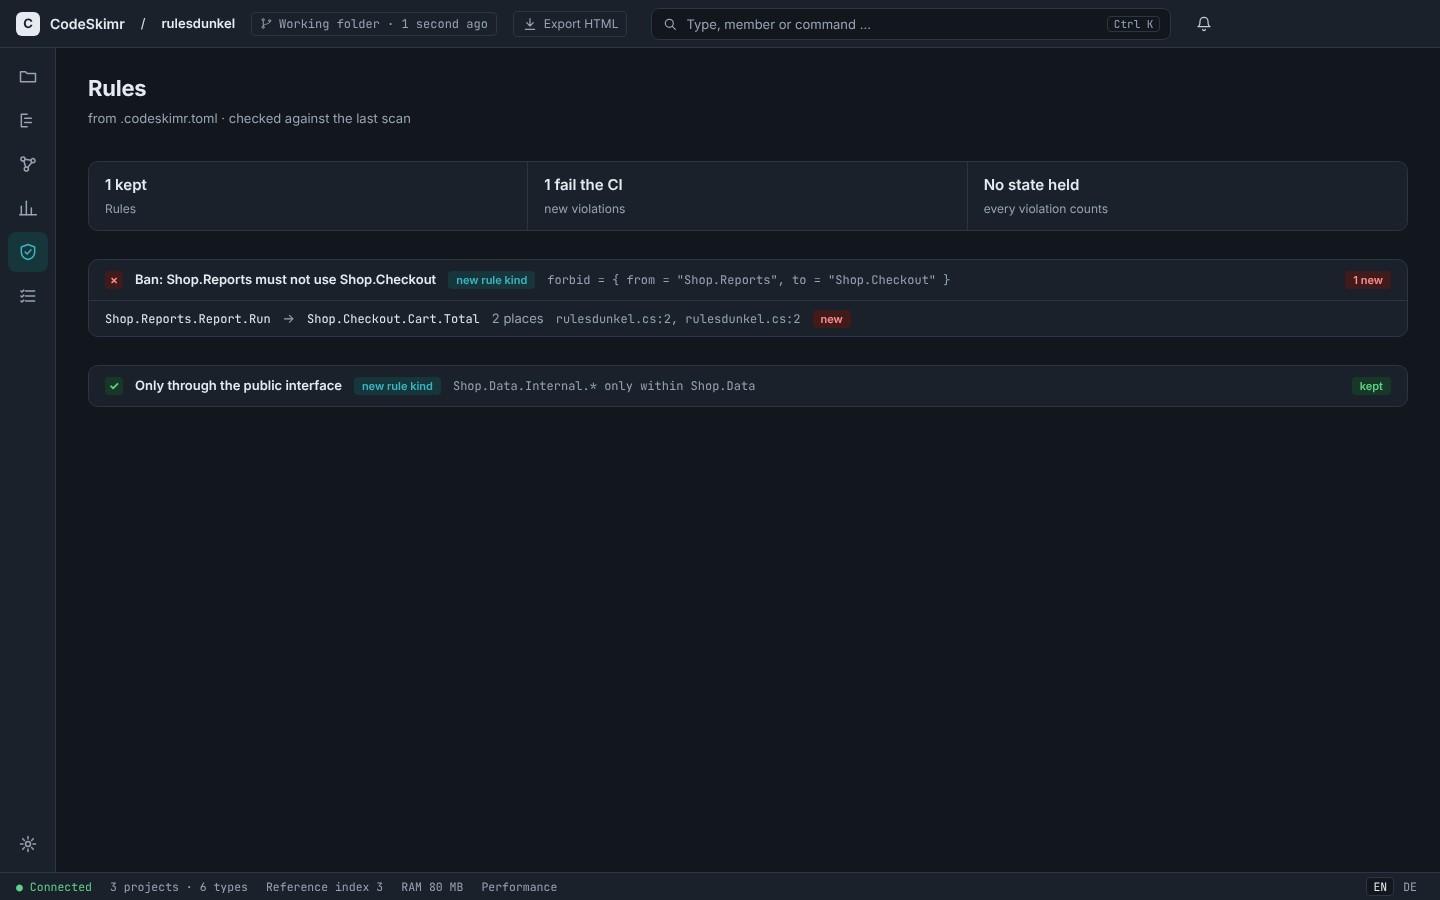
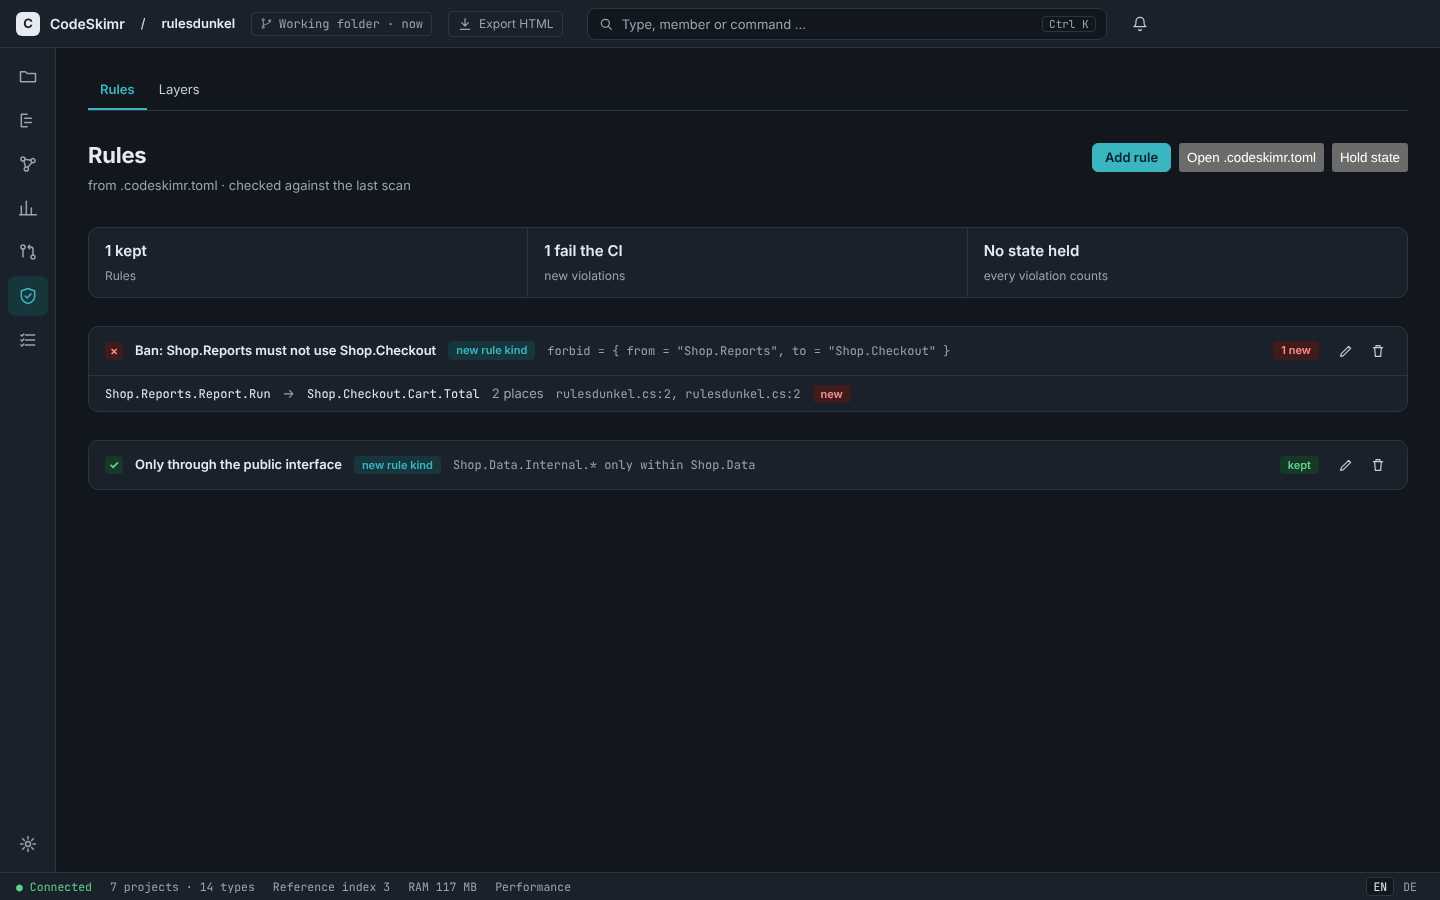
test: e2e for the rule editor and the layers tab, screenshots of the built screens
Claude-Session: https://claude.ai/code/session_01GJNKFdtWfbsxh4wZ6dws5Z

diff --git a/web/e2e/ui-rules-editor.spec.ts b/web/e2e/ui-rules-editor.spec.ts
@@ -1,0 +1,69 @@
+// The editor of the rules on the screen "Rules" (ADR 0112, mock 41): add a ban in the dialog with
+// its preview, save it into the project file, and reach the layers in their tab.
+// `UPDATE_SCREENSHOTS=1` writes the screens to docs/screenshots/rules-editor/ (`ui-*.png`).
+import path from "node:path";
+import { addScannedProject, expect, shot, test, type Harness } from "./fixtures";
+
+const SHOTS = path.resolve(import.meta.dirname, "../../docs/screenshots/rules-editor");
+const THEMES = ["hell", "petrol", "dunkel"];
+const SOURCE = [
+  "namespace Shop.Reports;",
+  "public class Report { public int Run(Shop.Checkout.Cart cart) { return cart.Total() + cart.Total(); } }",
+  "namespace Shop.Checkout;",
+  "public class Cart { public int Total() { return 1; } }",
+  "",
+].join("\n");
+const LAYERS = [
+  "[[layers]]",
+  'name = "Reports"',
+  'namespaces = ["Shop.Reports"]',
+  "",
+  "[[layers]]",
+  'name = "Checkout"',
+  'namespaces = ["Shop.Checkout"]',
+  "",
+].join("\n");
+
+for (const theme of THEMES) {
+  test(`adds a ban with a preview and shows the layers tab (${theme})`, async ({
+    page,
+    harness,
+  }, info) => {
+    await page.setViewportSize({ width: 1440, height: 900 });
+    await page.addInitScript((name) => localStorage.setItem("codeskimr.theme", name), theme);
+    const row = await addScannedProject(page, harness as Harness, `editor${theme}`, SOURCE, {
+      ".codeskimr.toml": LAYERS,
+    });
+    await row.click({ position: { x: 4, y: 4 } });
+    await page.getByRole("link", { name: "Rules", exact: true }).click();
+    await page.getByRole("button", { name: "Add rule" }).click();
+    await page.getByRole("menuitem", { name: /Ban/ }).click();
+    await page.getByLabel(/This module/).fill("Shop.Reports");
+    await page.getByLabel(/must not use this module/).fill("Shop.Checkout");
+    await expect(page.getByRole("status")).toContainText("violation");
+    await shot(page, SHOTS, `ui-ban-dialog-${theme}`, info);
+    await page.getByRole("button", { name: "Save", exact: true }).click();
+    await expect(page.getByText("Ban: Shop.Reports must not use Shop.Checkout")).toBeVisible();
+    await shot(page, SHOTS, `ui-rules-${theme}`, info);
+    await page.getByRole("tab", { name: "Layers" }).click();
+    await expect(page.getByRole("tab", { name: "Layers", selected: true })).toBeVisible();
+    await shot(page, SHOTS, `ui-layers-tab-${theme}`, info);
+  });
+}
+
+test("switches the cycle rule on from the menu and the settings no longer offer the layers", async ({
+  page,
+  harness,
+}) => {
+  const row = await addScannedProject(page, harness as Harness, "editorcycles", SOURCE, {
+    ".codeskimr.toml": `# mine\n${LAYERS}`,
+  });
+  await row.click({ position: { x: 4, y: 4 } });
+  await page.getByRole("link", { name: "Rules", exact: true }).click();
+  await page.getByRole("button", { name: "Add rule" }).click();
+  await page.getByRole("menuitem", { name: /Forbid cycles/ }).click();
+  await expect(page.getByText("No cycles between modules")).toBeVisible();
+  await page.getByRole("link", { name: "Settings" }).click();
+  await page.getByRole("tab", { name: "Analysis" }).click();
+  await expect(page.getByRole("button", { name: "Edit layers" })).toHaveCount(0);
+});

diff --git a/docs/mocks/README.md b/docs/mocks/README.md
@@ -33,7 +33,7 @@ Binding UI reference for the web frontend (blueprint section 15). One file per s
 | 26 | Projects: the tab "Scope" (languages and folders a project covers, consequences of a change), the hint in the window "New project" for a folder that lies inside a project, and the stage 2 report text without "add as a project of its own" (ADR 0102, chosen by the product owner on 2026-11-25); a plain page that renders in a browser, all three themes | `Scope.html` |
 | 38 | Settings: the five tabs Appearance, Analysis, Access, Effective settings and Info with the search in the tab bar (ADR 0098; variant B chosen by the product owner on 2026-11-24); a plain page that renders in a browser (`?v=b1\|b2&t=hell\|petrol\|dunkel`, b1 shows "Appearance", b2 "Analysis"; a1 to c2 are the variants that were not chosen) | `SettingsTabs.html` |
 | 39 | Screen "Change", tab "Impact" (`erw-auswirkung`, ADR 0097, approved on 2026-11-26): the five figures, the table of the changed symbols with the state of their usages, the notes on layer violations and critical symbols, and the usages of the selected symbol with the checklist "not touched"; a plain page that renders in a browser (`?t=hell\|petrol\|dunkel`, all three themes without `t`), pictures in `docs/screenshots/change/` (`m39-*.png`) | `ChangeImpact.html` |
-| 41 | Screen Rules: creating, changing and deleting rules (ADR 0112, variant A chosen by the product owner on 2026-11-27): the menu "Add rule", pen and bin on every card, the dialog for a ban with preview of the violations and the text written into the file, and the dialog for what each layer may use; variant B (one edit page with a single "Save") was not chosen; `a4` shows the tab "Layers" on the page (the layer editor moves from the settings into it, chosen on 2026-11-27); a plain page that renders in a browser (`RulesEditor.html?v=a1\|a2\|a3\|a4\|b1&t=hell\|petrol\|dunkel`), pictures in `docs/screenshots/rules-editor/` (`m41-*.png`) | `RulesEditor.html` |
+| 41 | Screen Rules: creating, changing and deleting rules (ADR 0112, variant A chosen by the product owner on 2026-11-27): the menu "Add rule", pen and bin on every card, the dialog for a ban with preview of the violations and the text written into the file, and the dialog for what each layer may use; variant B (one edit page with a single "Save") was not chosen; `a4` shows the tab "Layers" on the page (the layer editor moves from the settings into it, chosen on 2026-11-27); a plain page that renders in a browser (`RulesEditor.html?v=a1\|a2\|a3\|a4\|b1&t=hell\|petrol\|dunkel`), pictures in `docs/screenshots/rules-editor/` (`m41-*.png` the mock, `ui-*.png` the built screens from `web/e2e/ui-rules-editor.spec.ts`) | `RulesEditor.html` |
 
 Mocks 7 to 13 have a `theme` property (`hell`, `petrol`, `dunkel`; values in blueprint 15.3, ADR 0021). Mocks 1 to 6 are drawn in Hell. Screens 7 to 12 belong to the team edition (ADR 0019), screen 13 to 1.0.
 
